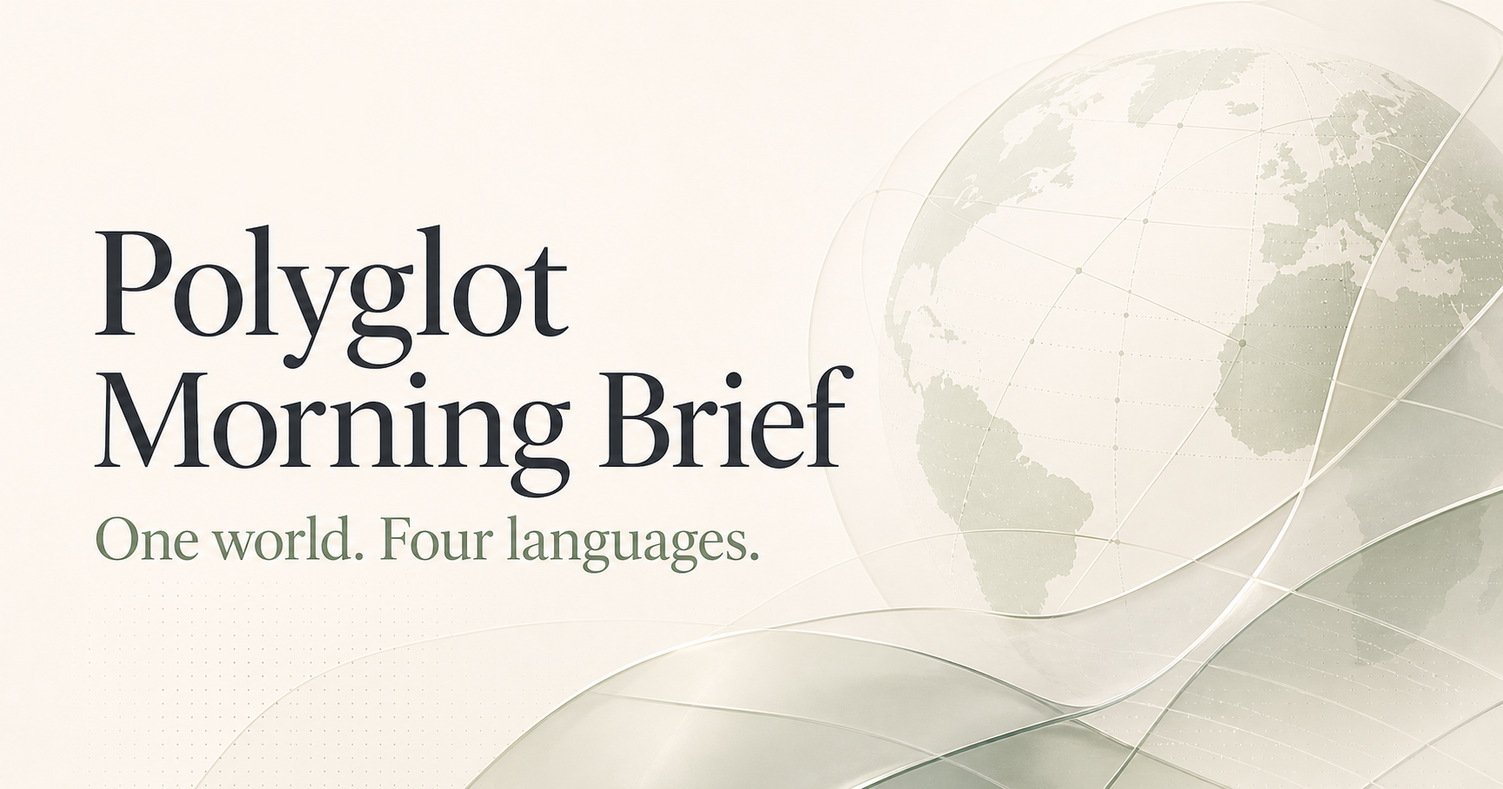
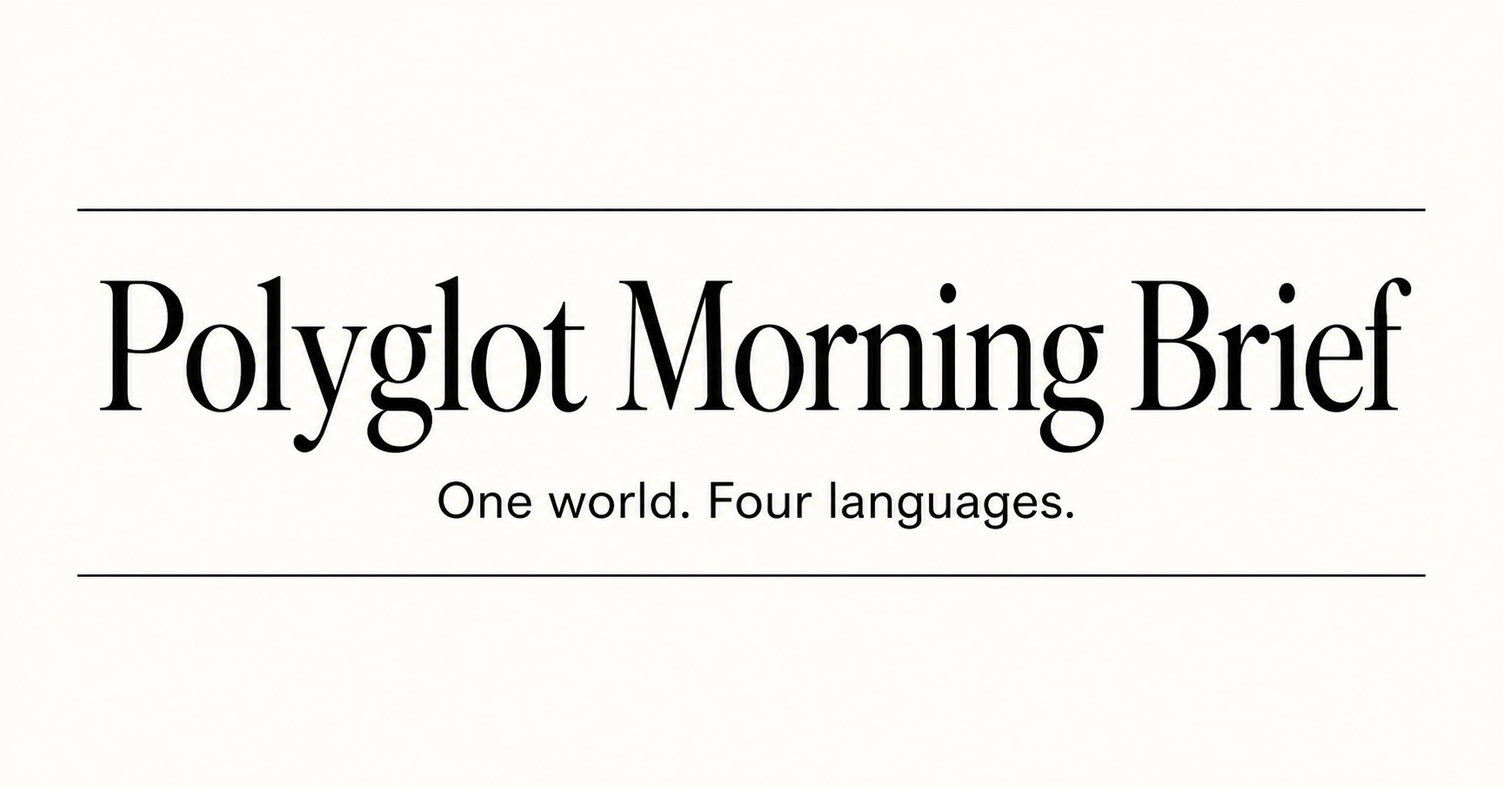
Simplify site to text-first three-page design

diff --git a/app/components/LibraryPages.tsx b/app/components/LibraryPages.tsx
@@ -1,43 +1,41 @@
 "use client";
 
-import { useEffect, useMemo, useState } from "react";
-import { archiveReports, deepReadArchive, demoReport } from "../data";
+import { useEffect, useState } from "react";
+import { archiveReports, getReportByDate } from "../data";
 import { SectionIntro, SiteChrome } from "./SiteChrome";
+import { Today } from "./Today";
 
 function LibraryHero({ kicker, title, text }: { kicker:string; title:string; text:string }) {
   return <section className="library-hero"><p>{kicker}</p><h1>{title}</h1><h2>{text}</h2></section>;
 }
 
 export function ArchivePage() {
-  const [filter,setFilter]=useState("All"); const [query,setQuery]=useState("");
-  const fields=["All","Technology","Politics","Economy","Finance","Science","History","AI"];
-  const reports=archiveReports.filter(r=>(filter==="All"||r.fields.includes(filter))&&r.title.toLowerCase().includes(query.toLowerCase()));
-  return <SiteChrome active="Archive"><main className="library-main"><LibraryHero kicker="YOUR MORNING HISTORY" title="Archive" text="把每一个早晨，连成自己的世界认知时间线。"/><div className="library-tools"><div className="filter-row">{fields.map(x=><button className={filter===x?"active":""} onClick={()=>setFilter(x)} key={x}>{x}</button>)}</div><input value={query} onChange={e=>setQuery(e.target.value)} placeholder="Search past editions…" aria-label="Search archive"/></div><div className="archive-layout"><aside className="calendar-card"><div><button>←</button><strong>August 2026</strong><button>→</button></div><div className="calendar-grid">{["M","T","W","T","F","S","S"].map((d,i)=><b key={`${d}-${i}`}>{d}</b>)}{Array.from({length:31},(_,i)=><span className={i+1===21?"active":i+1>17&&i+1<22?"has-report":""} key={i}>{i+1}</span>)}</div><small>4 editions · 3 completed</small></aside><div className="archive-timeline">{reports.map((r,i)=><a href={i===0?"/":"#"} key={r.date}><time>{r.date.slice(5).replace("-",".")}</time><i/><div><span>{r.status}</span><h3>{r.title}</h3><p>{r.fields.join(" · ")}</p></div><b>→</b></a>)}{reports.length===0&&<p className="empty-state">No editions match this filter.</p>}</div></div></main></SiteChrome>;
-}
+  const [query,setQuery]=useState("");
+  const [selectedDate,setSelectedDate]=useState<string|null>(null);
 
-export function WordsPage() {
-  const [query,setQuery]=useState(""); const [topic,setTopic]=useState("All"); const [mastered,setMastered]=useState<string[]>([]); const [saved,setSaved]=useState<string[]>([]);
-  const topics=["All",...Array.from(new Set(demoReport.hot_words.map(w=>w.topic)))];
-  const words=demoReport.hot_words.filter(w=>(topic==="All"||w.topic===topic)&&`${w.en}${w.zh}${w.ja}${w.ko}`.toLowerCase().includes(query.toLowerCase()));
-  return <SiteChrome active="Words"><main className="library-main"><LibraryHero kicker="A LIVING VOCABULARY" title="Hot Words Library" text="不是背单词表，而是记住词语出现时的真实世界。"/><div className="library-tools"><div className="filter-row">{topics.map(x=><button className={topic===x?"active":""} onClick={()=>setTopic(x)} key={x}>{x}</button>)}</div><input value={query} onChange={e=>setQuery(e.target.value)} placeholder="Search four languages…"/></div><div className="word-library-grid">{words.map((w,i)=><article key={w.en}><div><span>{w.topic}</span><button onClick={()=>setSaved(saved.includes(w.en)?saved.filter(x=>x!==w.en):[...saved,w.en])}>{saved.includes(w.en)?"♥":"♡"}</button></div><h3>{w.en}</h3><h4>{w.zh}</h4><dl><div><dt>日本語</dt><dd>{w.ja}</dd></div><div><dt>한국어</dt><dd>{w.ko}</dd></div></dl><p>{w.why_today}</p><footer><small>First seen · Aug 21</small><button className={mastered.includes(w.en)?"mastered":""} onClick={()=>setMastered(mastered.includes(w.en)?mastered.filter(x=>x!==w.en):[...mastered,w.en])}>{mastered.includes(w.en)?"Mastered ✓":"Mark mastered"}</button></footer></article>)}</div></main></SiteChrome>;
-}
+  useEffect(()=>{ setSelectedDate(new URLSearchParams(location.search).get("date")); },[]);
+  const selectedReport = selectedDate ? getReportByDate(selectedDate) : undefined;
+  if(selectedReport) return <Today archiveMode reportData={selectedReport}/>;
 
-export function ExpressionsPage() {
-  const [tab,setTab]=useState("English"); const [query,setQuery]=useState("");
-  const extras={ English:[demoReport.expressions[0],{...demoReport.expressions[0],phrase:"I’m leaning toward…",meaning:"我比较倾向于……",scene:"表达尚未完全确定的偏好",nuance:"比 I want 更保留空间。"}], 日本語:[demoReport.expressions[1],{...demoReport.expressions[1],phrase:"ちょっと考えます。",meaning:"我考虑一下。",scene:"礼貌地暂不答应",nuance:"可是真考虑，也可委婉保留。"}], 한국어:[demoReport.expressions[2],{...demoReport.expressions[2],phrase:"괜찮은 것 같아요.",meaning:"好像还不错。",scene:"温和地表达正面评价",nuance:"语气比 아주 좋아요 更克制。"}] };
-  const list=extras[tab as keyof typeof extras].filter(x=>`${x.phrase}${x.meaning}`.toLowerCase().includes(query.toLowerCase()));
-  return <SiteChrome active="Expressions"><main className="library-main"><LibraryHero kicker="SOUND MORE NATURAL" title="Expressions Library" text="收藏真正会在聊天、工作和日常生活里听见的表达。"/><div className="expression-tabs">{["English","日本語","한국어"].map(x=><button className={tab===x?"active":""} onClick={()=>setTab(x)} key={x}>{x}</button>)}</div><div className="library-tools single"><input value={query} onChange={e=>setQuery(e.target.value)} placeholder="Search expressions…"/></div><div className="expression-library">{list.map((exp,i)=><article key={`${exp.phrase}-${i}`}><span>{exp.register} · {exp.frequency}</span><h3>{exp.phrase}</h3><h4>{exp.meaning}</h4><div><p><b>语感</b>{exp.nuance}</p><p><b>场景</b>{exp.scene}</p></div><pre>{exp.dialogue}</pre><footer><small>Learned · Aug 21</small><button>♡ Save</button></footer></article>)}</div></main></SiteChrome>;
-}
-
-export function DeepReadsPage() {
-  const [filter,setFilter]=useState("All"); const cats=["All","AI","Technology","Politics","Economy","Finance","Science","History"];
-  return <SiteChrome active="Deep Reads"><main className="library-main"><LibraryHero kicker="YOUR KNOWLEDGE MAGAZINE" title="Deep Reads" text="值得花十二分钟真正理解的事，会留在这里。"/><div className="filter-row editorial-filters">{cats.map(x=><button className={filter===x?"active":""} onClick={()=>setFilter(x)} key={x}>{x}</button>)}</div><div className="deep-library">{deepReadArchive.filter(x=>filter==="All"||x.category===filter||filter==="AI"&&x.category==="Technology").map((item,i)=><a href={i===0?"/#deep-read":"#"} className={`deep-card ${item.tone}`} key={item.title}><div className="deep-card-art"><span>{item.category}</span><i/><b>0{i+1}</b></div><div><span>{item.date} · {item.minutes} min · {item.status}</span><h3>{item.title}</h3><p>{item.zh}</p><b>Read article →</b></div></a>)}</div></main></SiteChrome>;
+  const reports=archiveReports.filter(r=>`${r.title}${r.fields.join(" ")}${r.date}`.toLowerCase().includes(query.toLowerCase()));
+  return <SiteChrome active="Archive"><main className="library-main">
+    <LibraryHero kicker="PAST EDITIONS" title="Archive" text="按日期打开往期晨报，重新阅读当时的新闻、词汇、表达、深读与挑战。"/>
+    <div className="archive-search"><label><span>Search editions</span><input value={query} onChange={e=>setQuery(e.target.value)} placeholder="搜索日期、主题或标题……"/></label><p>{reports.length} complete Demo edition</p></div>
+    <section className="archive-index"><div className="archive-year"><strong>2026</strong><span>August</span></div><div className="archive-list">{reports.map(r=><a href={`/archive?date=${r.date}`} key={r.date}><time>{r.date.slice(5).replace("-",".")}</time><div><span>{r.fields.join(" · ")}</span><h2>{r.title}</h2><p>完整日报 · Hot Words · Expressions · 4 Briefings · Deep Read · Challenge</p></div><b>Read edition →</b></a>)}{reports.length===0&&<p className="empty-state">没有找到相符的往期晨报。</p>}</div></section>
+    <aside className="archive-note"><span>How Archive works</span><p>每日更新生成一份独立 DailyReport。Today 始终显示最新一期，旧日报会自动保留在这里，并可以完整打开，不会只剩标题摘要。</p></aside>
+  </main></SiteChrome>;
 }
 
 export function ProgressPage() {
   const [complete,setComplete]=useState(false); const [savedCount,setSavedCount]=useState(0);
   useEffect(()=>{ const s=localStorage.getItem("pmb-state"); if(s){const p=JSON.parse(s);setComplete(Boolean(p.completed));setSavedCount((p.savedWords??[]).length)}},[]);
-  const stats=[["3","Day rhythm"],[complete?"4":"3","Briefs completed"],[complete?"2h 42m":"2h 02m","Total reading"],[String(24+savedCount),"Hot Words"],["9","Expressions"],[complete?"3":"2","Deep Reads"]];
-  const languages=[{name:"English",level:"B2 → C1",focus:["Vocabulary","Reading","Natural Expressions"],value:68},{name:"日本語",level:"N5 → N4",focus:["Vocabulary","Basic Grammar","Reading"],value:32},{name:"한국어",level:"Beginner",focus:["Vocabulary","Basic Grammar","Reading"],value:27}];
-  return <SiteChrome active="Progress"><main className="library-main"><LibraryHero kicker="QUIET CONSISTENCY" title="Learning Overview" text="不追逐积分，只看见长期阅读留下的真实轨迹。"/><div className="overview-grid">{stats.map(([n,label])=><article key={label}><strong>{n}</strong><span>{label}</span></article>)}</div><section className="rhythm-card"><div><span>Last 7 mornings</span><h2>Your reading rhythm</h2><p>稳定比完美更重要。你在过去七天中完成了四次晨读。</p></div><div className="rhythm-bars">{[45,78,0,64,86,0,58].map((h,i)=><div key={i}><i style={{height:`${Math.max(h,5)}%`}} className={h===0?"empty":""}/><span>{["M","T","W","T","F","S","S"][i]}</span></div>)}</div></section><SectionIntro eyebrow="LANGUAGE PATHS" title="Three languages, one habit" subtitle="当前重点会随着你的阅读积累逐渐变化。"/><div className="language-progress-grid">{languages.map(l=><article key={l.name}><div><h3>{l.name}</h3><span>{l.level}</span></div><div className="progress-track"><i style={{width:`${l.value}%`}}/></div><b>{l.value}% foundation</b><ul>{l.focus.map((x,i)=><li key={x}><span>{i===0?"Now":"Next"}</span>{x}</li>)}</ul></article>)}</div></main></SiteChrome>;
+  const stats=[["3","连续学习天数"],[complete?"4":"3","已完成日报"],[complete?"2h 42m":"2h 02m","总阅读时间"],[String(24+savedCount),"已学热点词"],["9","已学表达"],[complete?"3":"2","完成深读"]];
+  const languages=[{name:"English",level:"B2 → C1",focus:["Vocabulary","Reading","Natural Expressions"]},{name:"日本語",level:"N5 → N4",focus:["Vocabulary","Basic Grammar","Reading"]},{name:"한국어",level:"Beginner",focus:["Vocabulary","Basic Grammar","Reading"]}];
+  return <SiteChrome active="Progress"><main className="library-main">
+    <LibraryHero kicker="LEARNING RECORD" title="Progress" text="只记录长期阅读留下的轨迹，不设置等级、积分或没有依据的语言百分比。"/>
+    <div className="progress-summary">{stats.map(([n,label])=><article key={label}><strong>{n}</strong><span>{label}</span></article>)}</div>
+    <section className="rhythm-card text-rhythm"><div><span>最近 7 天</span><h2>阅读节奏</h2><p>你在过去七天中完成了四次晨读。稳定比完美更重要。</p></div><div className="rhythm-bars">{[45,78,0,64,86,0,58].map((h,i)=><div key={i}><i style={{height:`${Math.max(h,5)}%`}} className={h===0?"empty":""}/><span>{["M","T","W","T","F","S","S"][i]}</span></div>)}</div></section>
+    <SectionIntro eyebrow="CURRENT FOCUS" title="Language paths" subtitle="三个语言目前的学习重点"/>
+    <div className="focus-list">{languages.map(l=><article key={l.name}><div><h3>{l.name}</h3><span>{l.level}</span></div><ol>{l.focus.map((x,i)=><li key={x}><span>{String(i+1).padStart(2,"0")}</span>{x}</li>)}</ol></article>)}</div>
+  </main></SiteChrome>;
 }

diff --git a/app/globals.css b/app/globals.css
@@ -14,3 +14,11 @@
 @media(max-width:900px){.site-header nav,.learning-status{display:none}.menu-button{display:block}.mobile-menu{position:fixed;z-index:75;top:96px;left:0;right:0;padding:18px 22px 26px;display:grid;background:var(--bg);border-bottom:1px solid var(--line);box-shadow:var(--shadow)}.mobile-menu a{display:flex;justify-content:space-between;padding:13px 2px;color:var(--muted);font-size:18px}.mobile-menu a.active{color:var(--ink)}.words-grid{grid-template-columns:repeat(2,1fr)}.expression-row{grid-template-columns:1fr;overflow:visible}.expression-card>p:not(.meaning){min-height:auto}.briefing-heading{grid-template-columns:120px 1fr}.briefing-heading>p{grid-column:2}.language-tabs,.language-content{padding-left:155px}.history-lens{grid-template-columns:1fr;gap:45px}.overview-grid{grid-template-columns:repeat(3,1fr)}.language-progress-grid{grid-template-columns:1fr}.word-library-grid{grid-template-columns:1fr 1fr}}
 @media(max-width:680px){html{scroll-padding-top:65px}.demo-ribbon{height:25px}.site-header{height:60px;padding:0 14px}.brand{font-size:15px}.search-button{display:none}.hero{width:calc(100% - 32px);padding:76px 0 52px}.hero h1{font-size:clamp(56px,17.2vw,78px);margin-top:23px}.hero>p{font-size:17px;line-height:1.5}.edition-meta{gap:14px 20px;margin-top:42px}.edition-meta span:nth-child(n+5){display:none}.big-story{width:calc(100% - 24px);grid-template-columns:1fr;margin-bottom:95px;border-radius:26px}.story-copy{padding:36px 27px 42px;order:2}.story-art{min-height:260px;order:1}.story-copy h2{font-size:39px}.story-copy h3{font-size:15px}.summary{font-size:14px}.content-section{width:calc(100% - 28px);margin-bottom:100px}.section-intro{align-items:start;margin-bottom:30px}.section-intro h2{font-size:44px}.section-intro>div>p:not(.section-number){font-size:13px}.time-pill{margin-top:4px}.words-grid{grid-template-columns:1fr}.word-card.open{grid-column:auto}.word-main{min-height:178px}.word-main h3{margin-top:31px}.word-detail dl{grid-template-columns:1fr}.expression-row{display:flex;overflow:auto;margin-right:-14px;scroll-snap-type:x mandatory}.expression-card{min-width:87vw;scroll-snap-align:start}.briefing{padding:42px 0 52px}.briefing-heading{display:block}.briefing-heading>span{display:block;margin-bottom:17px}.briefing-heading h3{font-size:27px}.briefing-heading h4{font-size:16px}.briefing-heading>p{margin-top:16px}.language-tabs{margin:25px -14px 18px;padding:0 14px}.language-content{padding:0;grid-template-columns:1fr}.language-content>div{padding:17px 0}.language-content p{font-size:14px}.deep-read{width:calc(100% - 14px);padding:48px 25px;border-radius:29px}.deep-header h2{font-size:46px}.deep-header h3{font-size:17px}.deep-header>div{flex-wrap:wrap}.deep-header>div>span{width:100%;margin-bottom:10px}.article-body{margin-top:70px}.standfirst{font-size:20px;margin-bottom:55px}.bilingual-pair p{font-size:17px;line-height:1.86}.zh-paragraph p{font-size:15px}.context-grid{grid-template-columns:1fr}.context-grid article{min-height:230px}.context-grid h3{margin-top:35px}.history-lens{width:calc(100% - 28px);padding:35px 27px}.timeline{grid-template-columns:1fr}.timeline i{width:100%;height:1px}.challenge-list article{padding:24px 20px}.challenge-list article>div{display:grid}.challenge-list article>div button{text-align:left}.answer-note{display:block}.answer-note strong{display:block;margin-bottom:6px}.complete-card{width:calc(100% - 24px);padding:48px 24px}.complete-card>div{flex-wrap:wrap}.mobile-progress{position:fixed;z-index:70;left:12px;right:12px;bottom:10px;height:44px;padding:0 14px;display:flex;align-items:center;justify-content:space-between;overflow:hidden;background:color-mix(in srgb,var(--surface) 91%,transparent);backdrop-filter:blur(16px);border:1px solid var(--line);border-radius:999px;box-shadow:0 10px 40px rgba(0,0,0,.12)}.mobile-progress>span{position:absolute;left:0;bottom:0;height:2px;background:var(--accent)}.mobile-progress b,.mobile-progress a{font-size:10px}.library-main{width:calc(100% - 28px);padding-bottom:80px}.library-hero{padding:76px 0 50px}.library-hero h1{font-size:58px}.library-hero h2{font-size:16px;line-height:1.5}.library-tools{grid-template-columns:1fr;gap:16px}.library-tools input{width:100%}.archive-layout{grid-template-columns:1fr;gap:45px}.archive-timeline h3{font-size:19px}.archive-timeline a{grid-template-columns:44px 7px 1fr 12px;gap:12px}.word-library-grid,.expression-library,.deep-library{grid-template-columns:1fr}.word-library-grid article{padding:24px}.expression-tabs{overflow:auto}.expression-tabs button{padding:14px 18px}.expression-library article{padding:28px 24px}.expression-library h3{font-size:30px}.expression-library article>div{grid-template-columns:1fr}.deep-card-art{height:240px}.deep-card h3{font-size:26px}.overview-grid{grid-template-columns:1fr 1fr}.rhythm-card{padding:30px 24px;grid-template-columns:1fr;gap:35px}.rhythm-bars{height:150px}.site-footer{width:calc(100% - 32px);padding-bottom:82px;display:block}.site-footer>div:last-child{margin-top:25px;justify-content:space-between}}
 @media(prefers-reduced-motion:reduce){*{scroll-behavior:auto!important;animation:none!important;transition:none!important}}
+
+/* Text-first editorial direction */
+.text-hero{padding-top:90px;border-bottom:1px solid var(--line)}
+.text-hero h1{font-family:Georgia,"Times New Roman",serif;font-weight:500;font-size:clamp(58px,8vw,98px);line-height:.94;letter-spacing:-.055em}
+.big-story{width:min(1060px,calc(100% - 40px));min-height:auto;display:block;background:transparent;border-top:1px solid var(--ink);border-bottom:1px solid var(--line);border-radius:0;box-shadow:none}
+.story-copy{padding:70px 0}
+@media(max-width:680px){.text-hero{padding-top:68px}.text-hero h1{font-size:clamp(48px,15vw,67px)}.big-story{width:calc(100% - 28px);border-radius:0}.story-copy{padding:48px 0}}
+.archive-reader-bar{width:min(1060px,calc(100% - 40px));margin:36px auto 0;padding:14px 0;display:flex;justify-content:space-between;border-bottom:1px solid var(--line);color:var(--muted);font-size:11px}.archive-reader-bar a{color:var(--ink);font-weight:650}.archive-search{margin-bottom:54px;padding:22px 0;display:grid;grid-template-columns:minmax(260px,430px) 1fr;gap:30px;align-items:end;border-top:1px solid var(--ink);border-bottom:1px solid var(--line)}.archive-search label span{display:block;margin-bottom:9px;color:var(--muted);font-size:10px}.archive-search input{width:100%;padding:12px 0;border:0;border-bottom:1px solid var(--line);outline:0;background:transparent;color:var(--ink)}.archive-search p{margin:0;text-align:right;color:var(--muted);font-size:10px}.archive-index{display:grid;grid-template-columns:150px 1fr;gap:40px}.archive-year{display:flex;flex-direction:column}.archive-year strong{font-family:Georgia,serif;font-size:42px;font-weight:500}.archive-year span{color:var(--muted);font-size:11px}.archive-list{border-top:1px solid var(--line)}.archive-list>a{padding:34px 0;display:grid;grid-template-columns:70px 1fr 110px;gap:26px;align-items:start;border-bottom:1px solid var(--line)}.archive-list time{font-family:Georgia,serif;font-size:21px}.archive-list div>span{color:var(--accent);font-size:9px;letter-spacing:.08em}.archive-list h2{margin:11px 0 8px;font-size:26px;letter-spacing:-.035em}.archive-list p{margin:0;color:var(--muted);font-size:10px}.archive-list>a>b{padding-top:4px;color:var(--muted);font-size:10px;text-align:right}.archive-note{max-width:720px;margin:80px 0 0 190px;padding:25px 0;border-top:1px solid var(--ink)}.archive-note span{color:var(--accent);font-size:9px;letter-spacing:.08em}.archive-note p{color:var(--muted);font-size:13px;line-height:1.75}.progress-summary{display:grid;grid-template-columns:repeat(3,1fr);border-top:1px solid var(--ink);border-bottom:1px solid var(--line);margin-bottom:85px}.progress-summary article{min-height:130px;padding:28px 20px;border-right:1px solid var(--line);display:flex;flex-direction:column;justify-content:space-between}.progress-summary article:nth-child(3n){border-right:0}.progress-summary strong{font-family:Georgia,serif;font-size:34px;font-weight:500}.progress-summary span{color:var(--muted);font-size:10px}.text-rhythm{border-radius:0;box-shadow:none;border-top:1px solid var(--ink);border-bottom:1px solid var(--line);background:transparent}.focus-list{border-top:1px solid var(--ink)}.focus-list article{padding:30px 0;display:grid;grid-template-columns:1fr 2fr;gap:50px;border-bottom:1px solid var(--line)}.focus-list h3{margin:0;font-size:30px}.focus-list article>div>span{color:var(--muted);font-size:10px}.focus-list ol{margin:0;padding:0;list-style:none}.focus-list li{padding:12px 0;border-bottom:1px solid var(--line);font-size:13px}.focus-list li:last-child{border:0}.focus-list li span{display:inline-block;width:50px;color:var(--faint);font-size:9px}@media(max-width:680px){.archive-reader-bar{width:calc(100% - 28px)}.archive-search{grid-template-columns:1fr}.archive-search p{text-align:left}.archive-index{grid-template-columns:1fr}.archive-list>a{grid-template-columns:54px 1fr}.archive-list>a>b{grid-column:2;text-align:left}.archive-note{margin-left:0}.progress-summary{grid-template-columns:1fr 1fr}.progress-summary article:nth-child(3n){border-right:1px solid var(--line)}.progress-summary article:nth-child(2n){border-right:0}.focus-list article{grid-template-columns:1fr;gap:24px}}

diff --git a/app/components/Today.tsx b/app/components/Today.tsx
@@ -1,7 +1,7 @@
 "use client";
 
 import { useEffect, useMemo, useState } from "react";
-import { demoReport, type Language } from "../data";
+import { latestReport, type DailyReport, type Language } from "../data";
 import { SectionIntro, SiteChrome } from "./SiteChrome";
 
 const languageLabels: Array<[Language,string]> = [["all","四语对照"],["zh","中文"],["en","English"],["ja","日本語"],["ko","한국어"]];
@@ -11,8 +11,9 @@ const vocab: Record<string,{zh:string; phonetic:string; collocation:string; cont
   depreciation:{zh:"折旧",phonetic:"/dɪˌpriːʃiˈeɪʃən/",collocation:"annual depreciation",context:"资产成本分多年计入费用的会计过程。"},
 };
 
-export function Today() {
-  const report = demoReport;
+export function Today({ archiveMode = false, reportData }: { archiveMode?: boolean; reportData?: DailyReport }) {
+  const report = reportData ?? latestReport;
+  const displayDate = new Intl.DateTimeFormat("en-GB", { weekday:"long", day:"numeric", month:"long" }).format(new Date(`${report.date}T00:00:00`));
   const [langByBrief, setLangByBrief] = useState<Record<number,Language>>({1:"all",2:"all",3:"all",4:"all"});
   const [openWord, setOpenWord] = useState<number|null>(null);
   const [savedWords, setSavedWords] = useState<number[]>([]);
@@ -49,19 +50,19 @@ export function Today() {
     });
   }
 
-  return <SiteChrome active="Today">
+  return <SiteChrome active={archiveMode ? "Archive" : "Today"}>
     <div className="reading-progress" style={{width:`${progress}%`}} />
     <main>
-      <section className="hero" id="top">
-        <div className="eyebrow"><span>Demo Content</span> Friday, 21 August · Edition 001</div>
-        <h1>One world.<br />Four languages.</h1>
-        <p>每天四十分钟，用四种语言理解同一个世界。</p>
+      {archiveMode && <div className="archive-reader-bar"><a href="/archive">← Back to Archive</a><span>Archived edition · {report.date}</span></div>}
+      <section className="hero text-hero" id="top">
+        <div className="eyebrow"><span>{report.demo ? "Demo Content" : "Today’s Edition"}</span> {displayDate} · Edition {String(report.edition_number).padStart(3,"0")}</div>
+        <h1>Polyglot<br/>Morning Brief</h1>
+        <p>四语全球晨报 · 每天四十分钟，用四种语言理解同一个世界。</p>
         <div className="edition-meta"><span><strong>40</strong> min</span><span><strong>8</strong> Hot Words</span><span><strong>3</strong> Expressions</span><span><strong>4</strong> Briefings</span><span><strong>1</strong> Deep Read</span><span><strong>5</strong> Challenges</span></div>
       </section>
 
       <section className="big-story" id="morning-brief">
         <div className="story-copy"><p className="kicker">TODAY’S BIG STORY · {report.big_story.category}</p><h2>{report.big_story.title_en}</h2><h3>{report.big_story.title_zh}</h3><p className="summary">{report.big_story.summary}</p><a className="primary-action" href="#hot-words">Start Morning Brief <span>↓</span></a><small>{report.big_story.minutes} min deep read · Illustrative editorial synthesis</small></div>
-        <div className="story-art" aria-hidden="true"><div className="grid-lines"/><div className="orb"/><span>AI · ENERGY · INFRASTRUCTURE</span></div>
       </section>
 
       <section className="content-section" id="hot-words">
@@ -103,7 +104,7 @@ export function Today() {
 
       <section className="content-section challenge-section"><SectionIntro eyebrow="07" title="Today’s Challenge" subtitle="今日挑战" meta="约 3 min"/><div className="challenge-list">{report.challenge.map(q=><article key={q.id}><span>{String(q.id).padStart(2,"0")} · {q.kind}</span><h3>{q.question}</h3><div>{q.options.map((option,i)=><button className={answers[q.id]===i ? (i===q.answer?"correct":"wrong") : ""} disabled={answers[q.id]!==undefined} onClick={()=>setAnswers({...answers,[q.id]:i})} key={option}>{option}</button>)}</div>{answers[q.id]!==undefined&&<p className="answer-note"><strong>{answers[q.id]===q.answer?"Correct":"Not quite"}</strong>{q.explanation}</p>}</article>)}</div><p className="score-line">Answered {Object.keys(answers).length} / 5 · Correct {score}</p></section>
 
-      <section className={`complete-card ${completed?"is-complete":""}`}><p>HOW WAS TODAY’S BRIEF?</p><h2>{completed?"Morning brief complete.":"Make it yours, one morning at a time."}</h2><div>{["Easy","Just Right","Challenging"].map(level=><button className={feedback===level?"active":""} onClick={()=>setFeedback(level)} key={level}>{level}</button>)}</div><button className="complete-button" onClick={()=>setCompleted(!completed)}>{completed?"Completed ✓":"Complete Today’s Brief"}</button><small>{completed?"Saved to your learning history.":"Your progress stays on this device for this demo."}</small></section>
+      {!archiveMode && <section className={`complete-card ${completed?"is-complete":""}`}><p>HOW WAS TODAY’S BRIEF?</p><h2>{completed?"Morning brief complete.":"Make it yours, one morning at a time."}</h2><div>{["Easy","Just Right","Challenging"].map(level=><button className={feedback===level?"active":""} onClick={()=>setFeedback(level)} key={level}>{level}</button>)}</div><button className="complete-button" onClick={()=>setCompleted(!completed)}>{completed?"Completed ✓":"Complete Today’s Brief"}</button><small>{completed?"Saved to your learning history.":"Your progress stays on this device for this demo."}</small></section>}
     </main>
     <div className="mobile-progress"><span style={{width:`${progress}%`}}/><b>{progress}% read</b><a href="#top">↑</a></div>
   </SiteChrome>;

diff --git a/app/data.ts b/app/data.ts
@@ -94,12 +94,15 @@ export const demoReport: DailyReport = {
   difficulty_feedback:null,
 };
 
-export const archiveReports = [
-  { date:"2026-08-21", title:demoReport.big_story.title_zh, fields:["Technology","AI","Energy"], status:"In progress" },
-  { date:"2026-08-20", title:"央行沟通如何改变市场预期", fields:["Economy","Finance"], status:"Completed" },
-  { date:"2026-08-19", title:"深海探测正在打开新的科学窗口", fields:["Science","Technology"], status:"Completed" },
-  { date:"2026-08-18", title:"关键矿产供应链为何变得重要", fields:["Politics","Economy"], status:"Saved" },
-];
+export const reports: DailyReport[] = [demoReport];
+export const latestReport = reports[0];
+export const getReportByDate = (date: string) => reports.find(report => report.date === date);
+export const archiveReports = reports.map(report => ({
+  date: report.date,
+  title: report.big_story.title_zh,
+  fields: report.big_story.category.split(" · "),
+  status: report.completion ? "Completed" : "Available",
+}));
 
 export const deepReadArchive = [
   { date:"2026-08-21", category:"Technology", title:"AI’s next breakthrough may depend on everything around the chip", zh:"AI 的下一次突破，或许取决于芯片之外的一切", minutes:14, status:"Reading", tone:"sage" },

diff --git a/app/components/SiteChrome.tsx b/app/components/SiteChrome.tsx
@@ -3,8 +3,7 @@
 import { useEffect, useState, type ReactNode } from "react";
 
 const links = [
-  ["Today", "/"], ["Archive", "/archive"], ["Words", "/words"],
-  ["Expressions", "/expressions"], ["Deep Reads", "/deep-reads"], ["Progress", "/progress"],
+  ["Today", "/"], ["Archive", "/archive"], ["Progress", "/progress"],
 ] as const;
 
 export function SiteChrome({ active, children }: { active: string; children: ReactNode }) {
